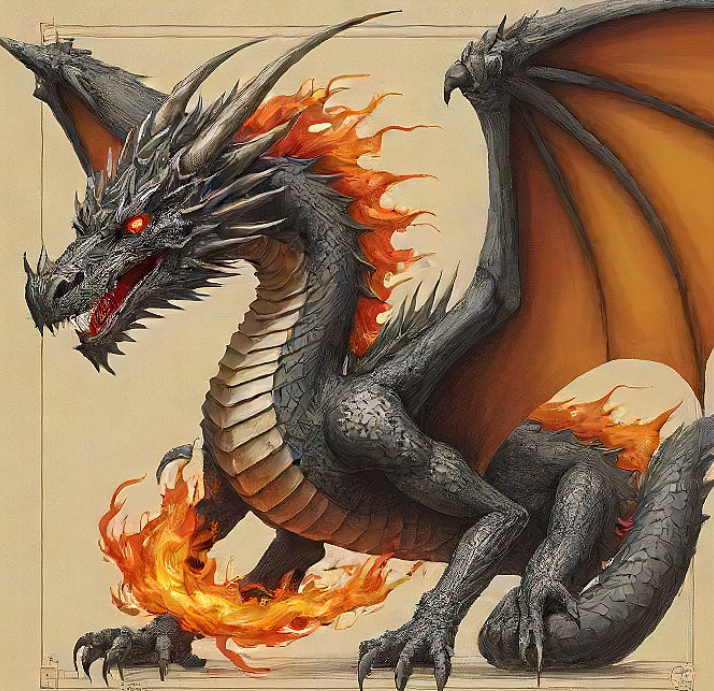
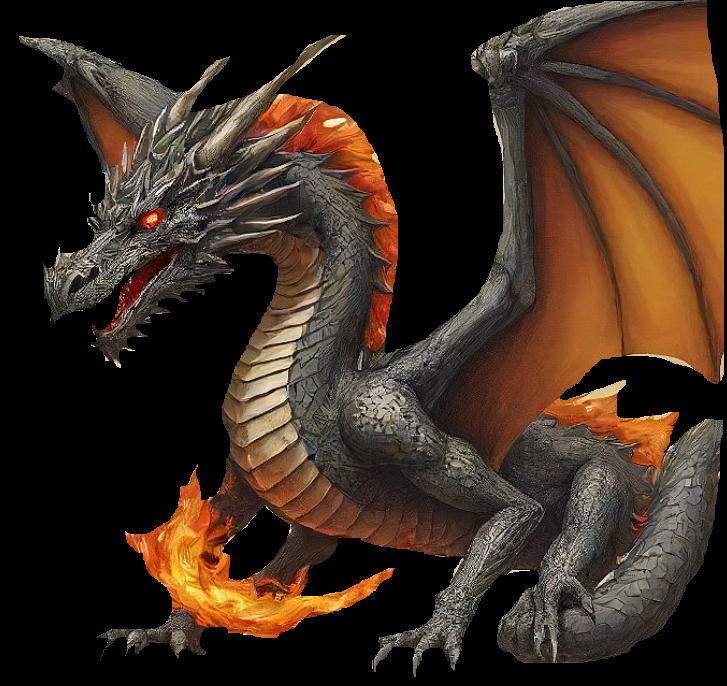
omg: add cool images and movement mecahnics

diff --git a/omg/entities/player.py b/omg/entities/player.py
@@ -15,27 +15,140 @@ class Player(arcade.Sprite):
         self.projectiles = arcade.SpriteList()
         self.angle = initial_angle  # Set initial angle here
 
-    def update(self, mouse_x, mouse_y, obstacles, screen_width, screen_height):
-        self.center_x += self.change_x
-        self.center_y += self.change_y
+        # Health
+        self.max_health = 100
+        self.current_health = 100
+
+        # Mana
+        self.max_mana = 100
+        self.current_mana = 100
+        self.mana_regen_rate = 5  # Mana regenerated per second
+        self.mana_regen_cooldown = 0
+
+        # Default movement keys
+        self.key_forward = arcade.key.W
+        self.key_backward = arcade.key.S
+        self.key_left = arcade.key.A
+        self.key_right = arcade.key.D
+
+        # Projectile types
+        self.projectile_types = []
+        self.current_projectile_index = 0
+
+    def update(self, mouse_x, mouse_y, obstacles, screen_width, screen_height, delta_time):
+        self.update_position()
         handle_obstacle_collisions(self, obstacles)
         handle_screen_boundary_collision(self, screen_width, screen_height)
         self.projectiles.update()
         self.face_mouse(mouse_x, mouse_y)
+        self.regenerate_mana(delta_time)
+
+    def update_position(self):
+        forward_x, forward_y = self.calculate_movement_vector(self.angle + 90)
+        right_x, right_y = self.calculate_movement_vector(self.angle)
+
+        self.center_x += self.change_x * forward_x + self.change_y * right_x
+        self.center_y += self.change_x * forward_y + self.change_y * right_y
+
+    def calculate_movement_vector(self, angle):
+        radian_angle = math.radians(angle)
+        return math.cos(radian_angle), math.sin(radian_angle)
 
     def face_mouse(self, mouse_x, mouse_y):
         # Adjust the angle by 90 degrees to ensure the top of the sprite faces the mouse
         self.angle = math.degrees(math.atan2(mouse_y - self.center_y, mouse_x - self.center_x)) - 90
 
-    def shoot(self, projectile_image, scale, damage, speed):
-        projectile = Projectile(name="Basic Shot", image_file=projectile_image, scale=scale, damage=damage, speed=speed)
+    def shoot(self):
+        if not self.projectile_types or self.current_mana < 20:
+            return
+        
+        self.current_mana -= 20
+        projectile_info = self.projectile_types[self.current_projectile_index]
+        projectile = Projectile(
+            name=projectile_info['name'],
+            image_file=projectile_info['image_file'],
+            scale=projectile_info['scale'],
+            damage=projectile_info['damage'],
+            speed=projectile_info['speed']
+        )
         projectile.center_x = self.center_x
         projectile.center_y = self.center_y
         angle_rad = math.radians(self.angle + 90)  # Adjust the shooting angle accordingly
-        projectile.change_x = speed * math.cos(angle_rad)
-        projectile.change_y = speed * math.sin(angle_rad)
+        projectile.change_x = projectile_info['speed'] * math.cos(angle_rad)
+        projectile.change_y = projectile_info['speed'] * math.sin(angle_rad)
         self.projectiles.append(projectile)
+
+    def regenerate_mana(self, delta_time):
+        self.mana_regen_cooldown += delta_time
+        if self.mana_regen_cooldown >= 1:
+            self.current_mana += self.mana_regen_rate
+            if self.current_mana > self.max_mana:
+                self.current_mana = self.max_mana
+            self.mana_regen_cooldown = 0
+
+    def add_projectile_type(self, name, image_file, scale, damage, speed):
+        self.projectile_types.append({
+            'name': name,
+            'image_file': image_file,
+            'scale': scale,
+            'damage': damage,
+            'speed': speed
+        })
+
+    def select_projectile(self, index):
+        if 0 <= index < len(self.projectile_types):
+            self.current_projectile_index = index
+
+    def set_movement_keys(self, forward, backward, left, right):
+        self.key_forward = forward
+        self.key_backward = backward
+        self.key_left = left
+        self.key_right = right
 
     def draw(self):
         super().draw()
         self.projectiles.draw()
+        self.draw_health_bar()
+        self.draw_mana_bar()
+
+    def draw_health_bar(self):
+        health_bar_width = 50
+        health_bar_height = 5
+        health_bar_x = self.center_x
+        health_bar_y = self.center_y + self.height / 2 + 10
+        arcade.draw_rectangle_filled(
+            health_bar_x,
+            health_bar_y,
+            health_bar_width,
+            health_bar_height,
+            arcade.color.RED
+        )
+        current_health_width = health_bar_width * (self.current_health / self.max_health)
+        arcade.draw_rectangle_filled(
+            health_bar_x - (health_bar_width - current_health_width) / 2,
+            health_bar_y,
+            current_health_width,
+            health_bar_height,
+            arcade.color.GREEN
+        )
+
+    def draw_mana_bar(self):
+        mana_bar_width = 50
+        mana_bar_height = 5
+        mana_bar_x = self.center_x
+        mana_bar_y = self.center_y + self.height / 2 + 2  # Slightly below the health bar
+        arcade.draw_rectangle_filled(
+            mana_bar_x,
+            mana_bar_y,
+            mana_bar_width,
+            mana_bar_height,
+            arcade.color.DARK_BLUE
+        )
+        current_mana_width = mana_bar_width * (self.current_mana / self.max_mana)
+        arcade.draw_rectangle_filled(
+            mana_bar_x - (mana_bar_width - current_mana_width) / 2,
+            mana_bar_y,
+            current_mana_width,
+            mana_bar_height,
+            arcade.color.LIGHT_BLUE
+        )

diff --git a/omg/core/game_window.py b/omg/core/game_window.py
@@ -24,6 +24,10 @@ class GameWindow(arcade.Window):
         self.mouse_y = 0
         self.on_key_press_handler = None
         self.on_key_release_handler = None
+        self.skill_icons = []
+        self.icon_scale = 0.1
+        self.icon_margin = 10
+        self.icon_size = 64
 
     def setup(self):
         self.player = Player(
@@ -33,30 +37,61 @@ class GameWindow(arcade.Window):
             scale=0.2,
             initial_angle=0
         )
+        # Set custom movement keys (optional)
+        self.player.set_movement_keys(arcade.key.W, arcade.key.S, arcade.key.A, arcade.key.D)
         self.on_key_press_handler, self.on_key_release_handler = setup_movement_keys(self.player)
         
         # Create obstacles
         self.obstacles = arcade.SpriteList()
         obstacle_image = os.path.join(ROOT_DIR, "obstacles", "obstacle.png")
-        obstacle = Obstacle(obstacle_image, 0.1, health=50)
+        obstacle = Obstacle(obstacle_image, 0.2, health=50)
         obstacle.center_x = 400
         obstacle.center_y = 300
         self.obstacles.append(obstacle)
+
+        # Add projectile types
+        self.player.add_projectile_type(
+            name="Fireball",
+            image_file=os.path.join(ROOT_DIR, "skills", "fireball.PNG"),
+            scale=0.05,
+            damage=10,
+            speed=5
+        )
+        self.player.add_projectile_type(
+            name="Ice Shard",
+            image_file=os.path.join(ROOT_DIR, "skills", "ice_shard.PNG"),
+            scale=0.05,
+            damage=15,
+            speed=7
+        )
+
+        # Load skill icons
+        self.load_skill_icons()
+
+    def load_skill_icons(self):
+        for projectile in self.player.projectile_types:
+            icon_texture = arcade.load_texture(projectile['image_file'])
+            self.skill_icons.append(icon_texture)
 
     def on_draw(self):
         arcade.start_render()
         self.player.draw()
         self.obstacles.draw()
+        self.draw_ui()
 
     def update(self, delta_time):
-        self.player.update(self.mouse_x, self.mouse_y, self.obstacles, SCREEN_WIDTH, SCREEN_HEIGHT)
+        self.player.update(self.mouse_x, self.mouse_y, self.obstacles, SCREEN_WIDTH, SCREEN_HEIGHT, delta_time)
         self.check_for_collisions()
 
     def on_key_press(self, key, modifiers):
         if self.on_key_press_handler:
             self.on_key_press_handler(key, modifiers)
         if key == arcade.key.SPACE:
-            self.player.shoot(os.path.join(ROOT_DIR, "skills", "fireball.PNG"), scale=0.05, damage=10, speed=5)
+            self.player.shoot()
+        elif key == arcade.key.KEY_1:
+            self.player.select_projectile(0)
+        elif key == arcade.key.KEY_2:
+            self.player.select_projectile(1)
 
     def on_key_release(self, key, modifiers):
         if self.on_key_release_handler:
@@ -68,6 +103,27 @@ class GameWindow(arcade.Window):
 
     def check_for_collisions(self):
         handle_projectile_collisions(self.player.projectiles, self.obstacles)
+
+    def draw_ui(self):
+        for i, icon in enumerate(self.skill_icons):
+            x = self.icon_margin + i * (self.icon_size + self.icon_margin)
+            y = self.icon_margin
+            if i == self.player.current_projectile_index:
+                arcade.draw_rectangle_outline(
+                    x + self.icon_size // 2,
+                    y + self.icon_size // 2,
+                    self.icon_size,
+                    self.icon_size,
+                    arcade.color.RED,
+                    border_width=3
+                )
+            arcade.draw_texture_rectangle(
+                x + self.icon_size // 2,
+                y + self.icon_size // 2,
+                self.icon_size,
+                self.icon_size,
+                icon
+            )
 
 def main():
     window = GameWindow()

diff --git a/omg/mechanics/movement.py b/omg/mechanics/movement.py
@@ -1,23 +1,30 @@
 import arcade
 
-def setup_movement_keys(player, key_bindings=None):
-    if key_bindings is None:
-        key_bindings = {'up': arcade.key.W, 'left': arcade.key.A, 'down': arcade.key.S, 'right': arcade.key.D}
-    
+def setup_movement_keys(player):
+    key_state = {
+        player.key_forward: False,
+        player.key_backward: False,
+        player.key_left: False,
+        player.key_right: False
+    }
+
     def on_key_press(key, modifiers):
-        if key == key_bindings['up']:
-            player.change_y = 5
-        elif key == key_bindings['left']:
-            player.change_x = -5
-        elif key == key_bindings['down']:
-            player.change_y = -5
-        elif key == key_bindings['right']:
-            player.change_x = 5
+        if key in key_state:
+            key_state[key] = True
+        update_player_velocity(player, key_state)
 
     def on_key_release(key, modifiers):
-        if key == key_bindings['up'] or key == key_bindings['down']:
-            player.change_y = 0
-        elif key == key_bindings['left'] or key == key_bindings['right']:
-            player.change_x = 0
+        if key in key_state:
+            key_state[key] = False
+        update_player_velocity(player, key_state)
 
     return on_key_press, on_key_release
+
+def update_player_velocity(player, key_state):
+    forward = 1 if key_state[player.key_forward] else 0
+    backward = -1 if key_state[player.key_backward] else 0
+    left = -1 if key_state[player.key_left] else 0
+    right = 1 if key_state[player.key_right] else 0
+
+    player.change_x = forward + backward
+    player.change_y = left + right

diff --git a/omg/entities/obstacle.py b/omg/entities/obstacle.py
@@ -3,9 +3,35 @@ import arcade
 class Obstacle(arcade.Sprite):
     def __init__(self, image_file, scale, health):
         super().__init__(image_file, scale)
-        self.health = health
+        self.max_health = health
+        self.current_health = health
 
     def take_damage(self, damage):
-        self.health -= damage
-        if self.health <= 0:
+        self.current_health -= damage
+        if self.current_health <= 0:
             self.kill()
+
+    def draw(self):
+        super().draw()
+        self.draw_health_bar()
+
+    def draw_health_bar(self):
+        health_bar_width = 50
+        health_bar_height = 5
+        health_bar_x = self.center_x
+        health_bar_y = self.center_y + self.height / 2 + 10
+        arcade.draw_rectangle_filled(
+            health_bar_x,
+            health_bar_y,
+            health_bar_width,
+            health_bar_height,
+            arcade.color.RED
+        )
+        current_health_width = health_bar_width * (self.current_health / self.max_health)
+        arcade.draw_rectangle_filled(
+            health_bar_x - (health_bar_width - current_health_width) / 2,
+            health_bar_y,
+            current_health_width,
+            health_bar_height,
+            arcade.color.GREEN
+        )
